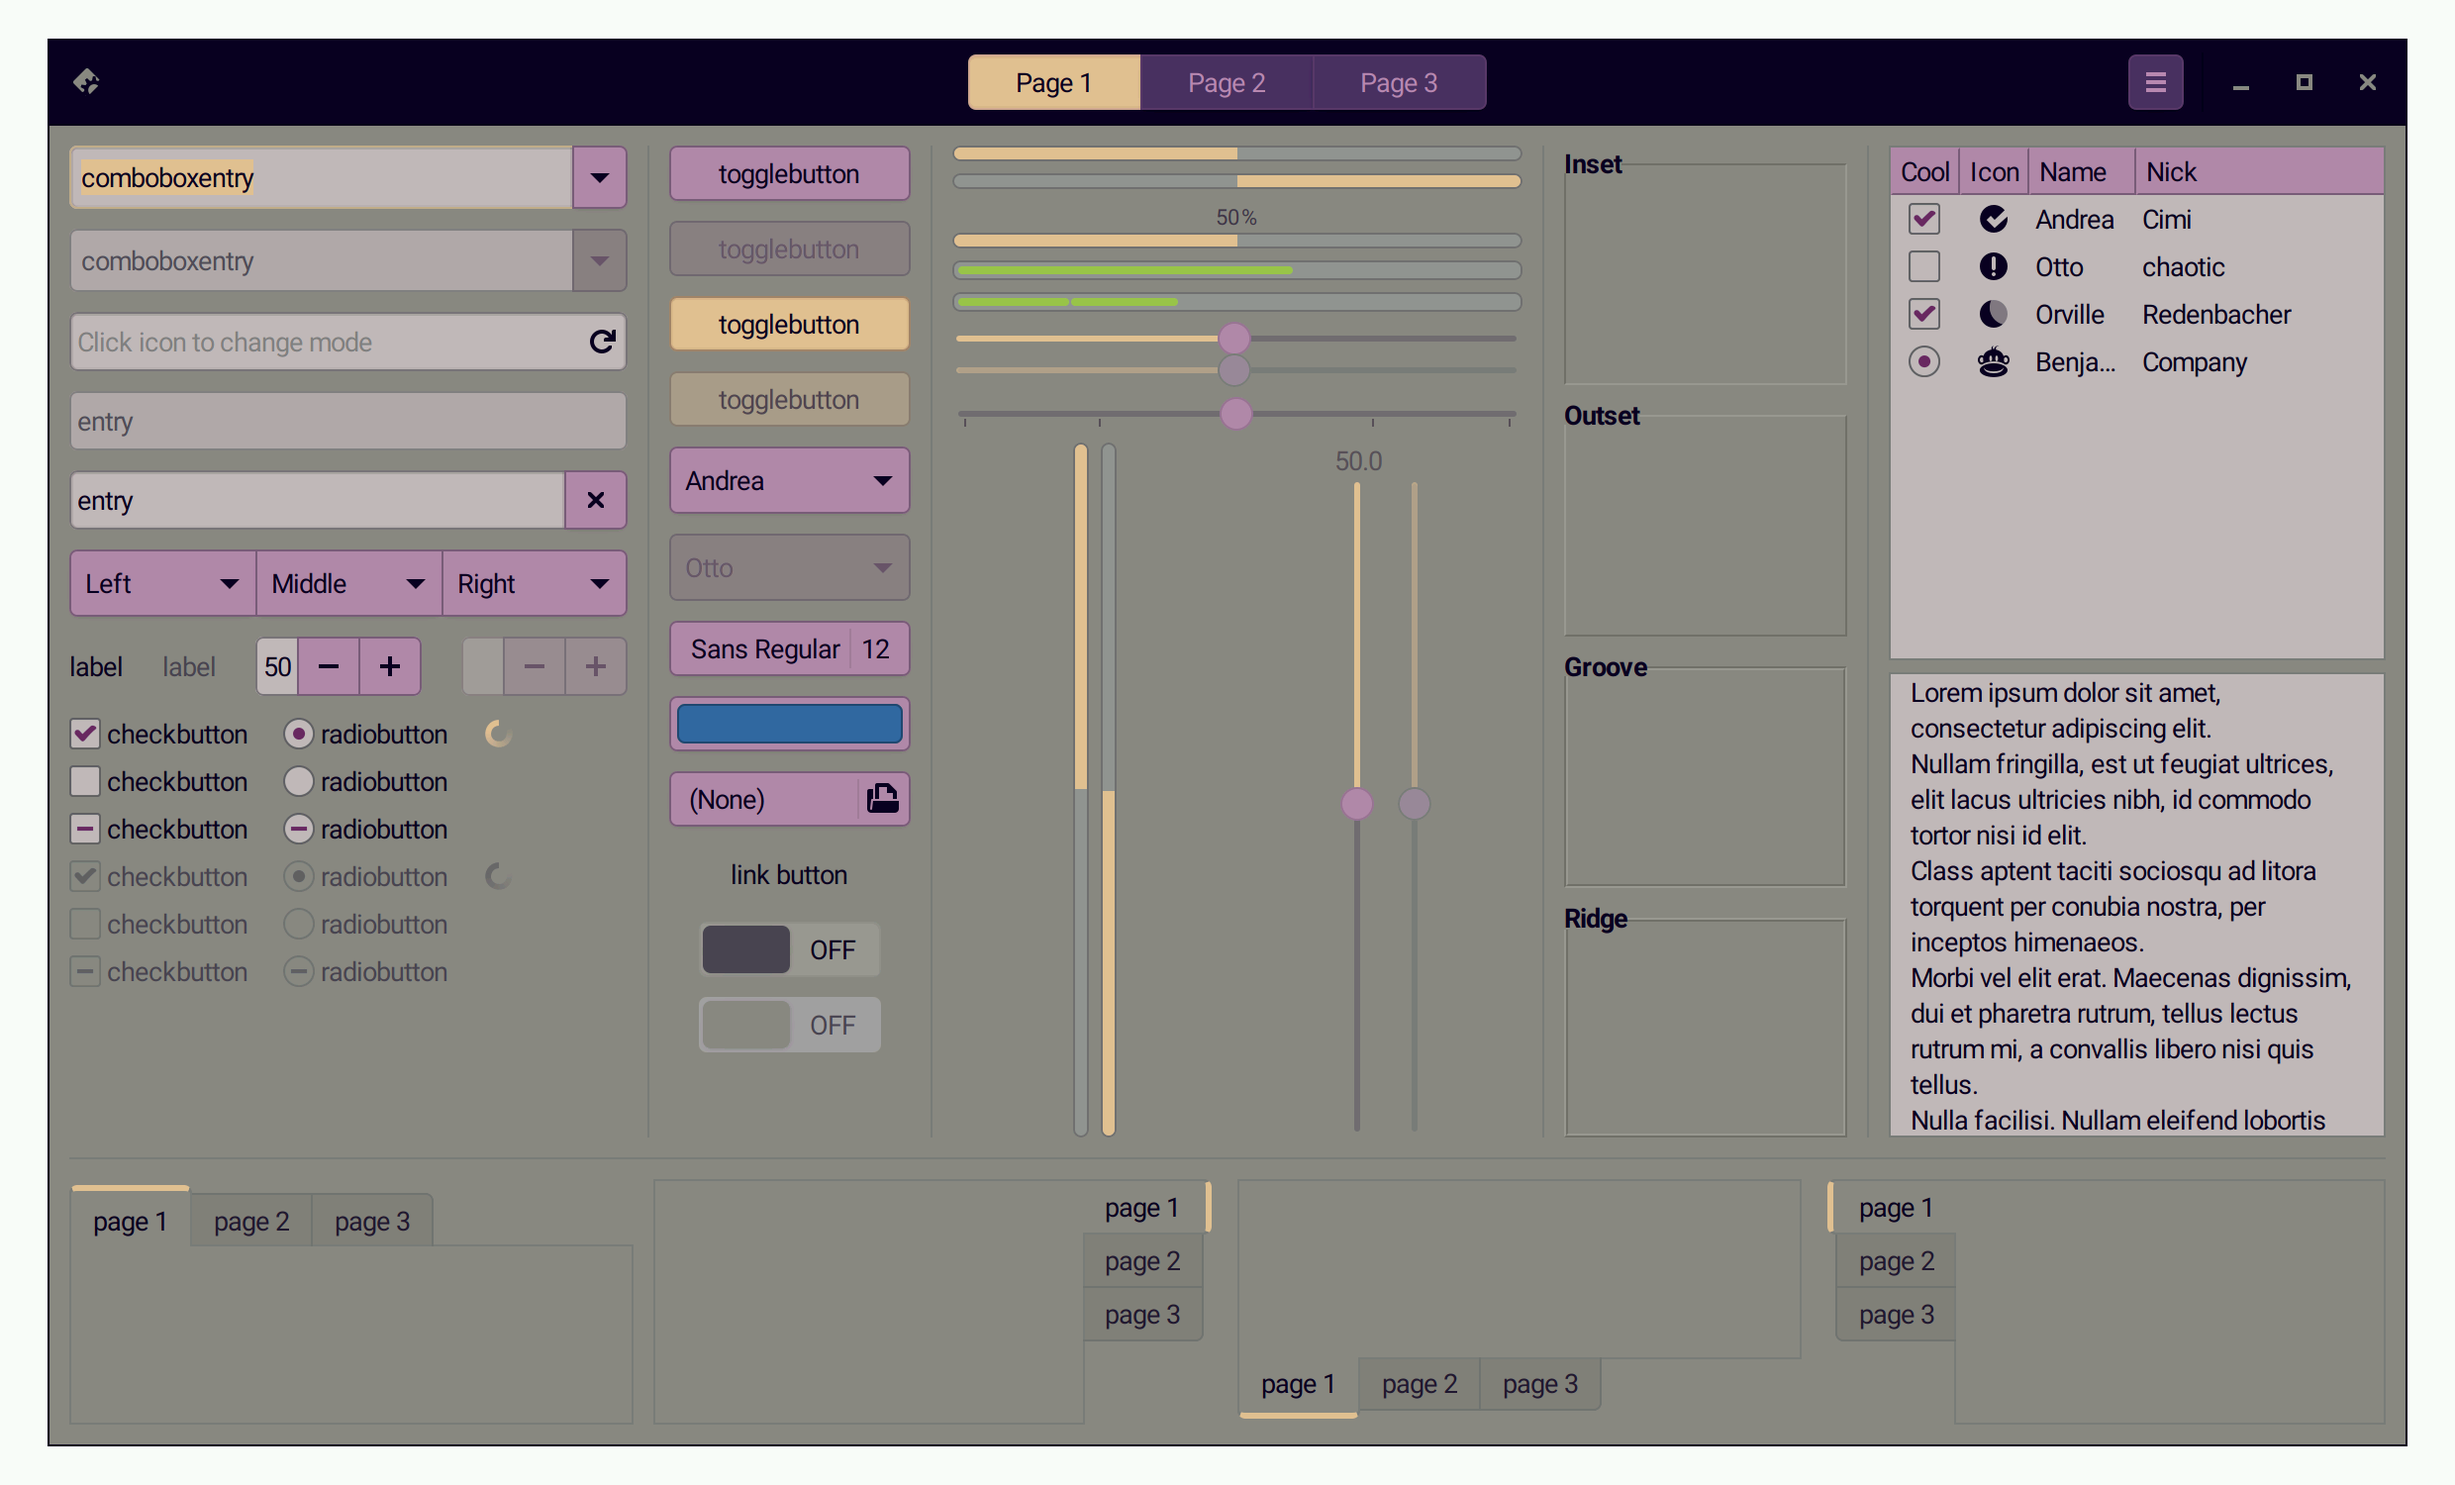
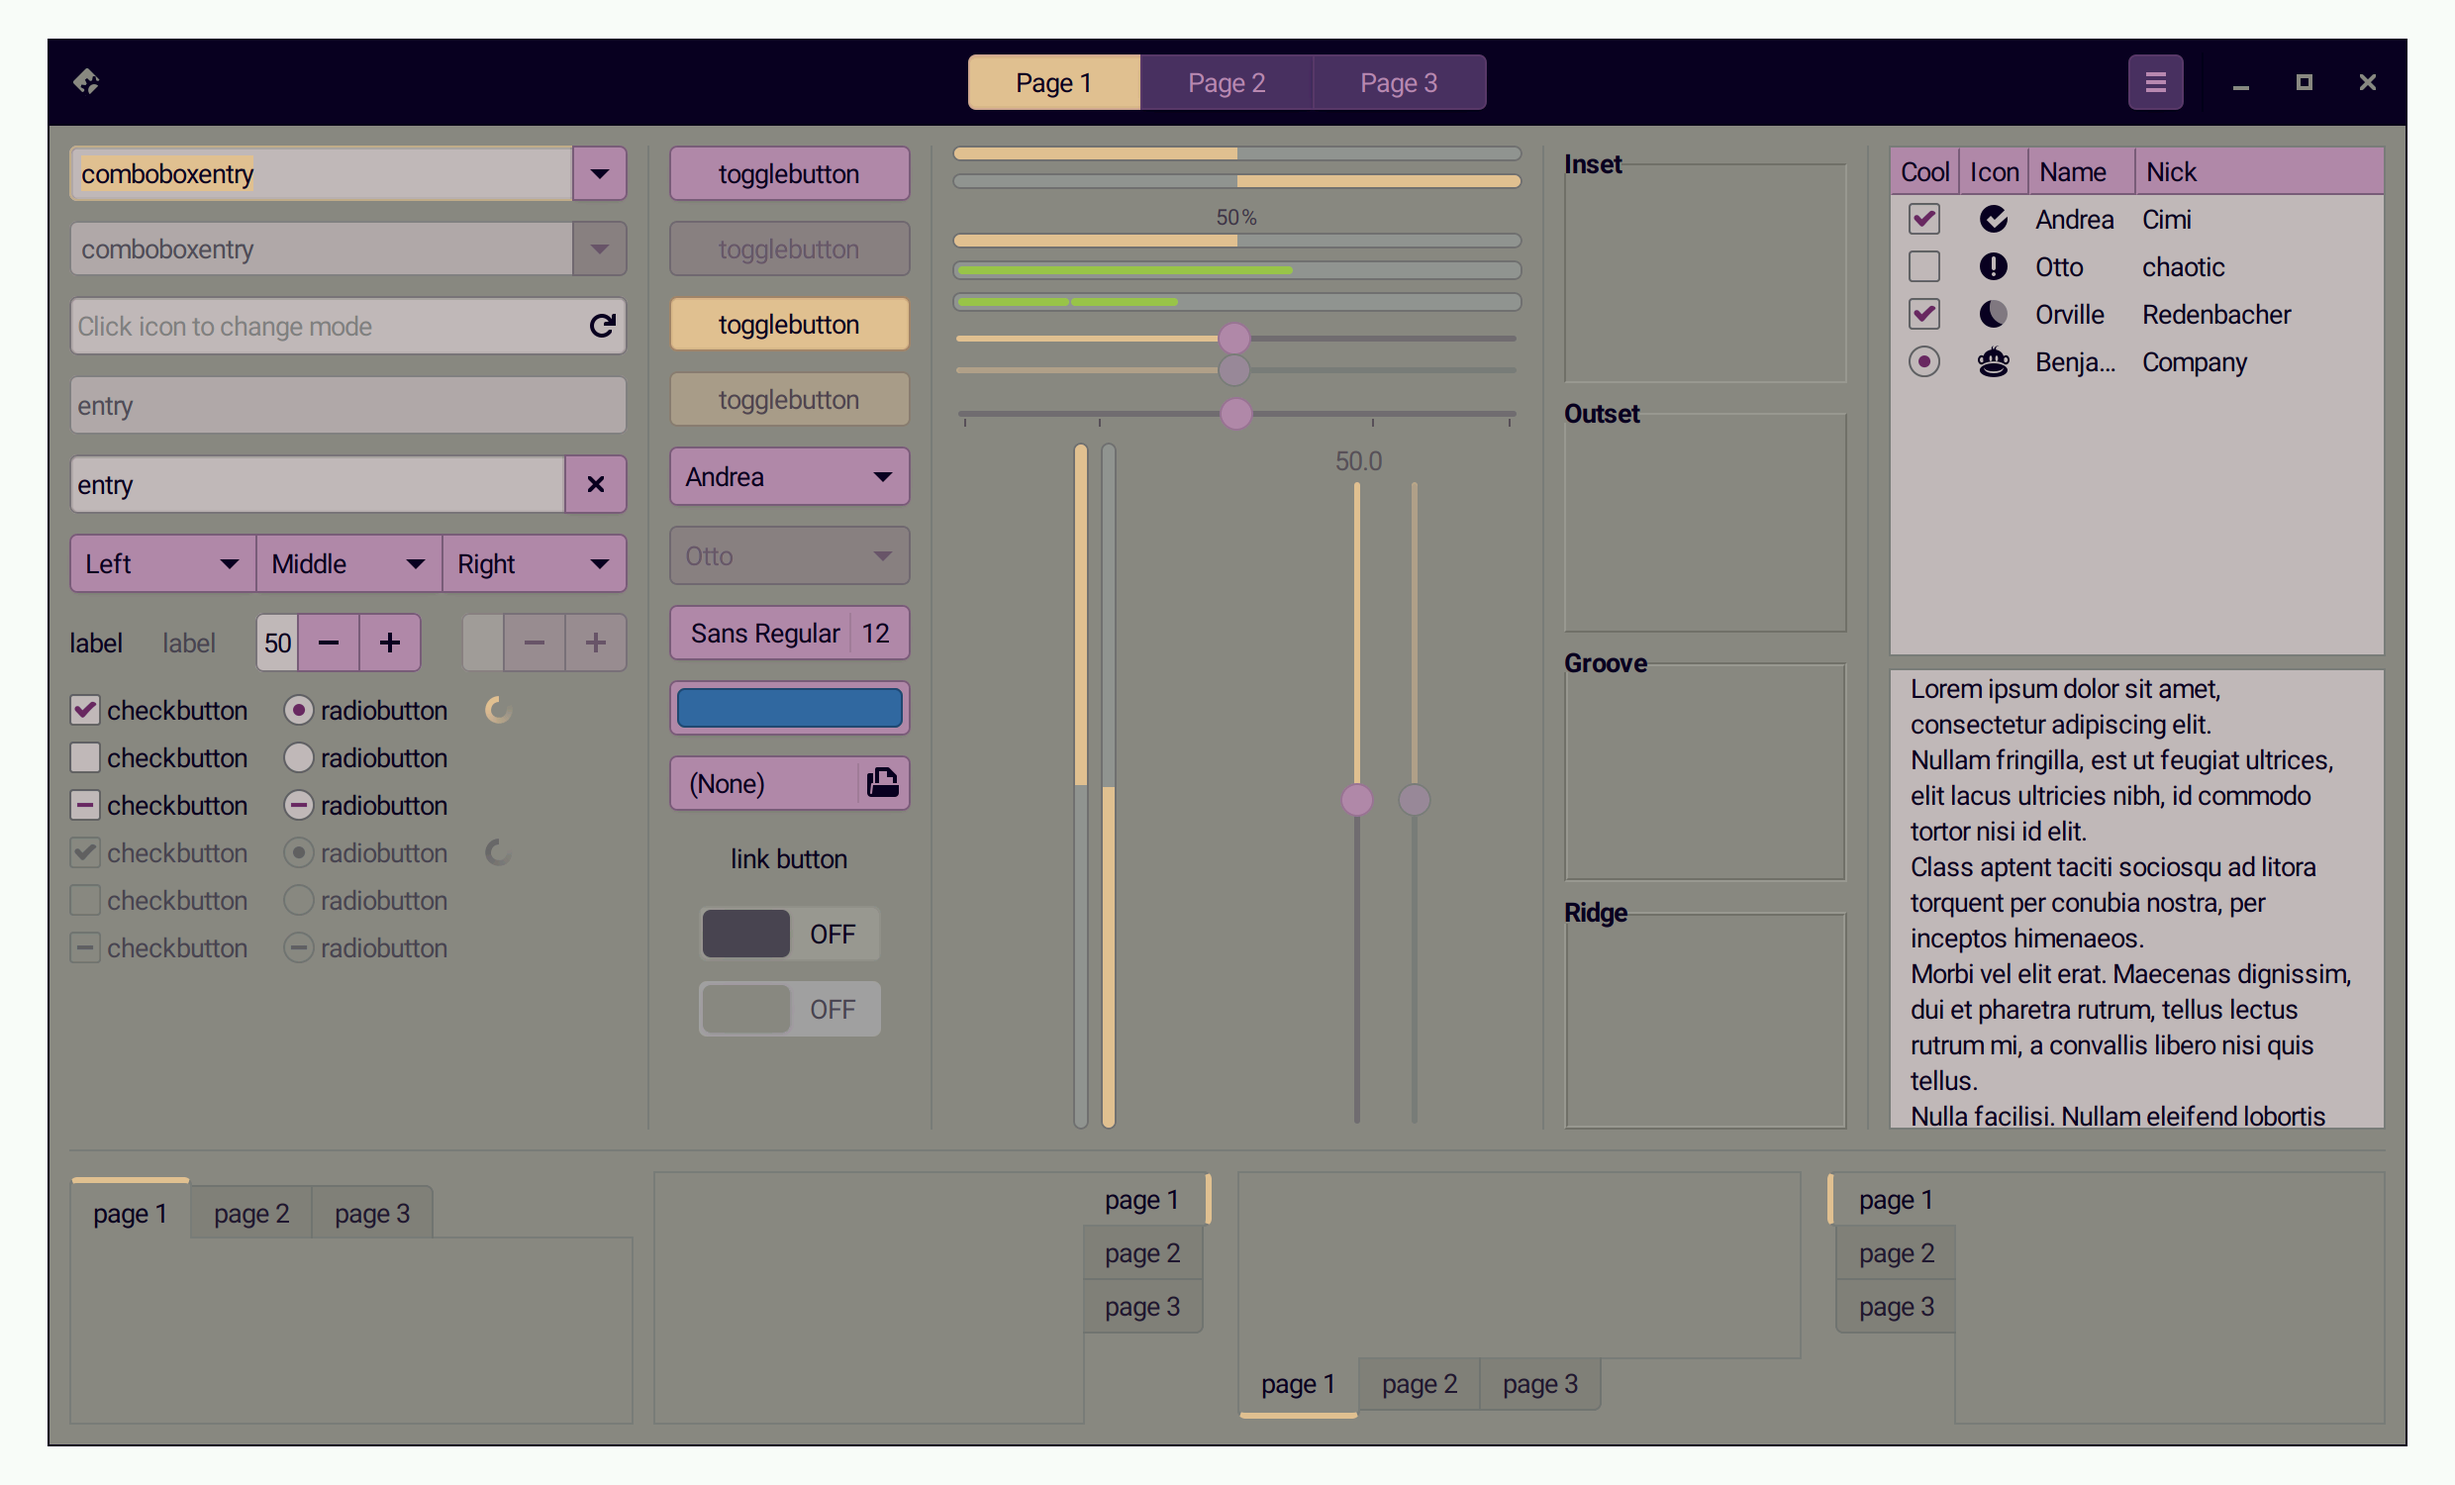
Revert "feat(gtk3.20): increase combobox padding to match entry and editable combobox (or better to decrease padding in those two??)"
This reverts commit ee4ed0ead560e77f464c12a9214c0fdb8651f500.

diff --git a/src/gtk-3.20/scss/widgets/_button.scss b/src/gtk-3.20/scss/widgets/_button.scss
@@ -676,8 +676,7 @@ $button_border_width: 1px;
 
         box button, box entry {
             @extend %linked_button;
-            //padding: $spacing ($spacing + 2px);
-            padding: $spacing + 2px;
+            padding: $spacing ($spacing + 2px);
         }
 
         .linked:not(.vertical) > & > box > button.combo {
